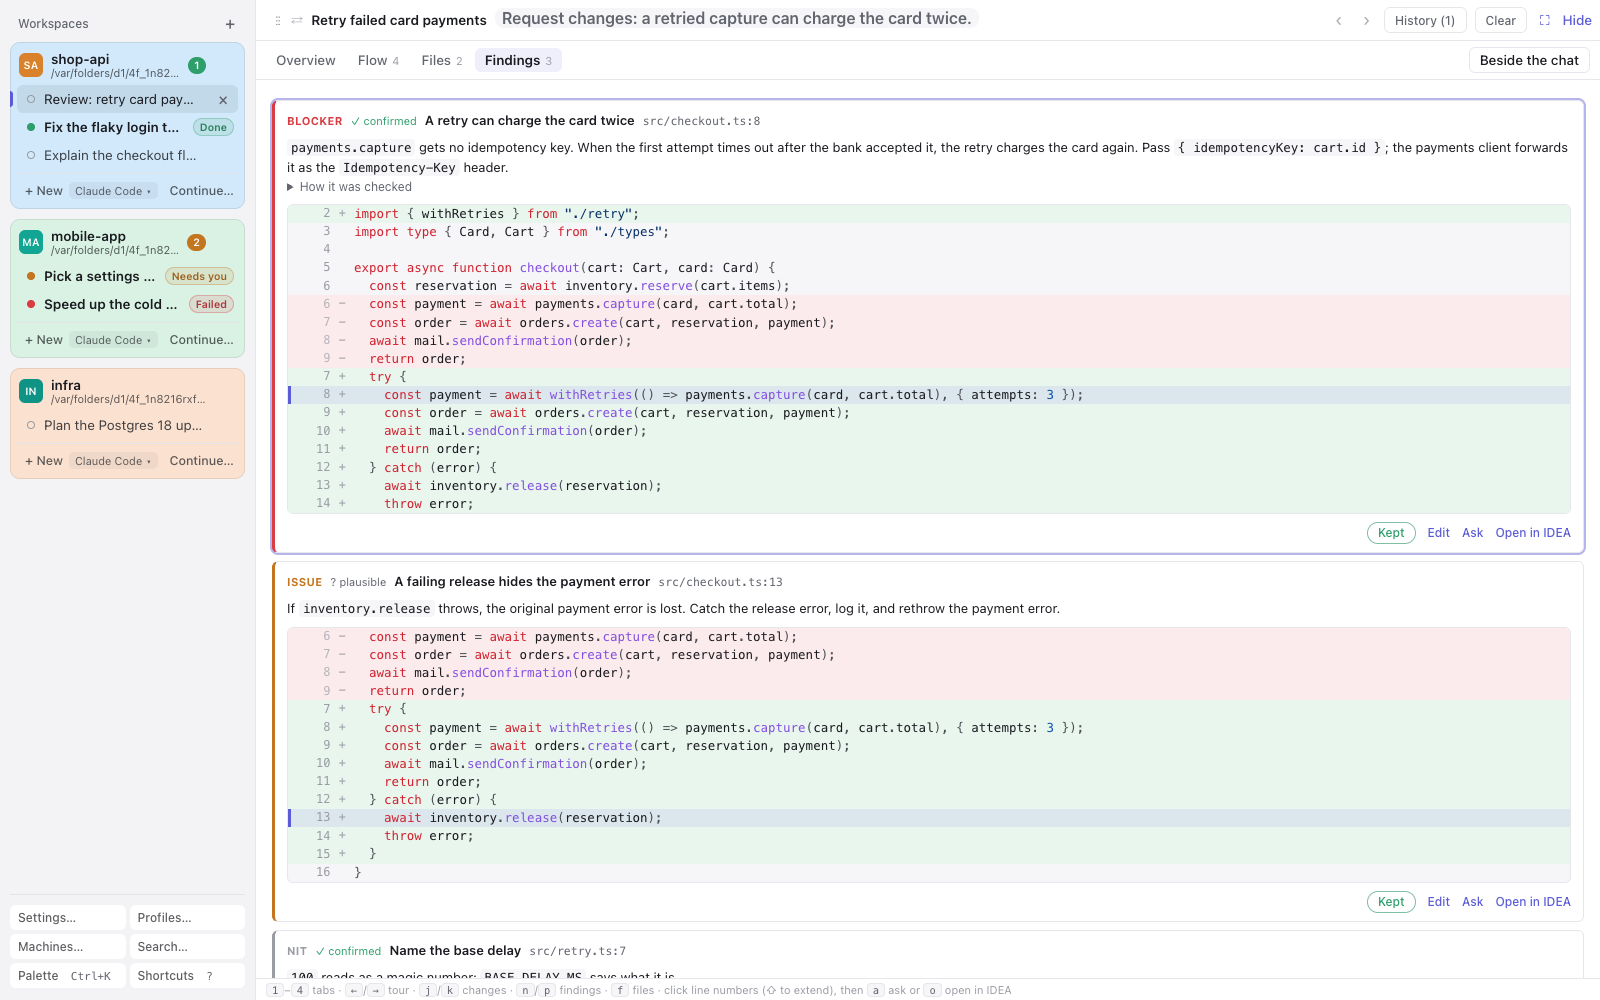
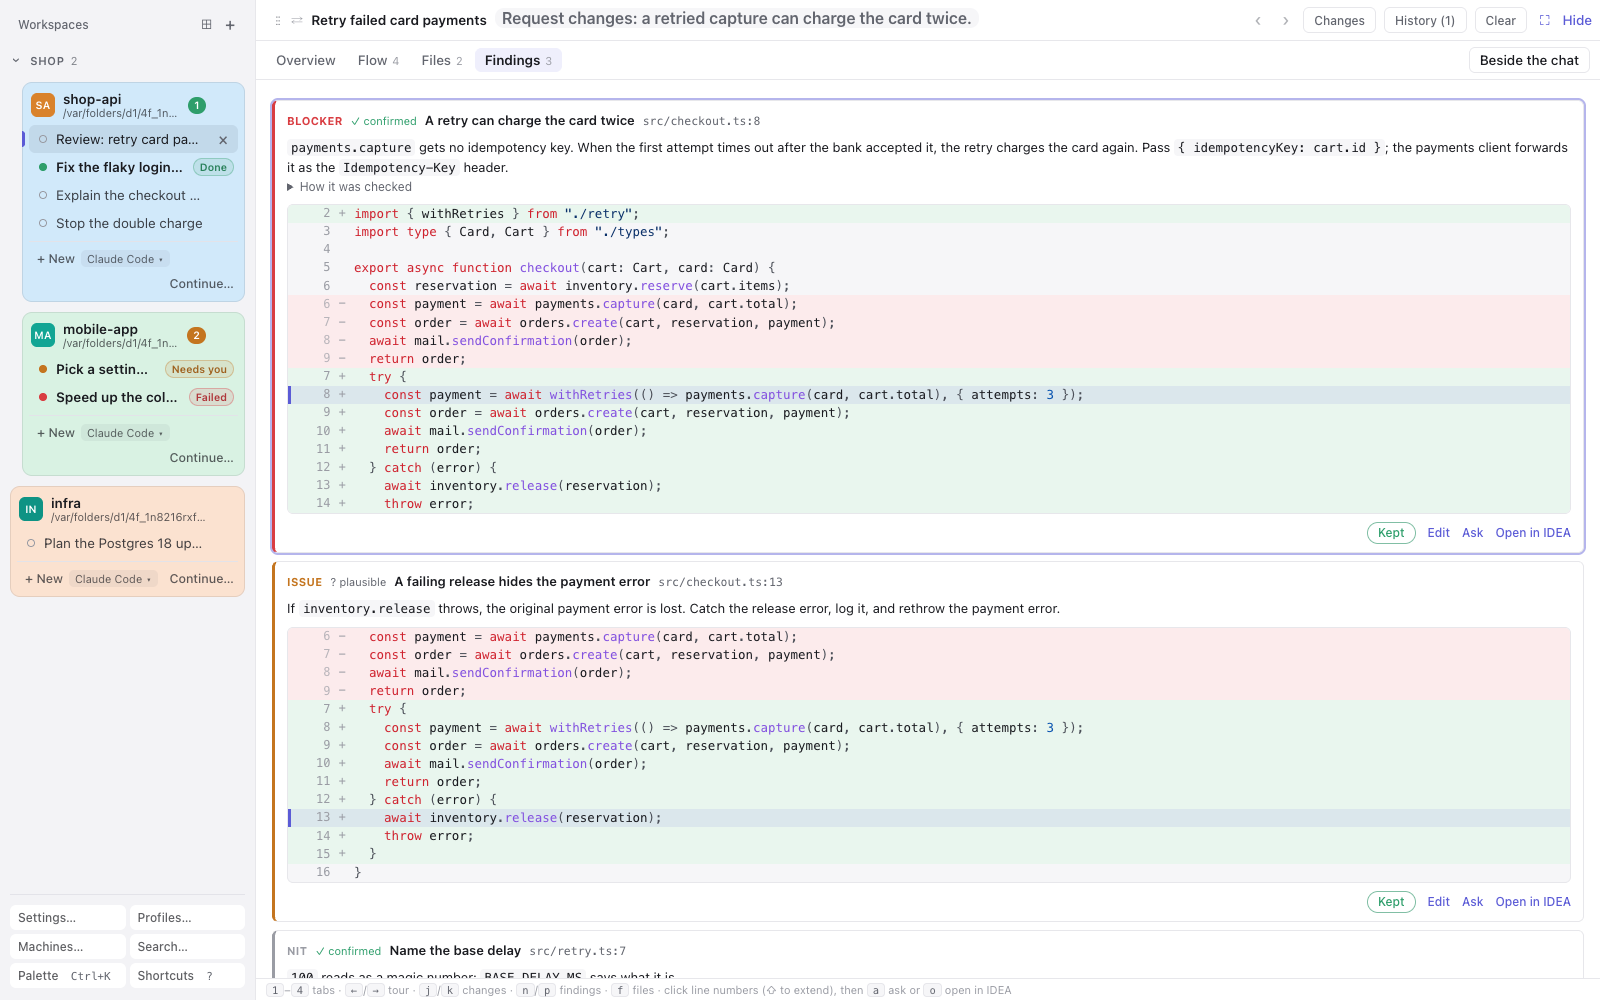
Show the Changes view and workspace groups in the README

Changed region(s): [[0.0, 0.0, 0.1562, 0.62], [0.8125, 0.0, 0.8438, 0.031]]

diff --git a/e2e/readme-screenshots.spec.ts b/e2e/readme-screenshots.spec.ts
@@ -78,6 +78,8 @@ const retry = `export async function withRetries<T>(run: () => Promise<T>, { att
 }
 `;
 
+const checkoutFixed = checkoutAfter.replace("payments.capture(card, cart.total)", "payments.capture(card, cart.total, { idempotencyKey: cart.id })");
+
 /** shop-api on a branch that retries card payments, the change the demo review is about. */
 function createProjects() {
   writeFiles(shopApi, { "README.md": "# shop-api\n", "src/checkout.ts": checkoutBefore });
@@ -148,6 +150,22 @@ const coldStart = [
   userSays("Profile the cold start on a mid-range phone and cut it below a second."),
   agentSays("Starting a trace on the emulator…"),
   { type: "turn-end", stopReason: "refusal" },
+];
+
+const captureLine = "withRetries(() => payments.capture(card, cart.total), { attempts: 3 })";
+const stopDoubleCharge = [
+  userSays("Fix the blocker from the review: a retried capture must not charge the card twice."),
+  update({
+    sessionUpdate: "tool_call",
+    toolCallId: "toolu_edit",
+    title: "Edit src/checkout.ts",
+    kind: "edit",
+    status: "completed",
+    locations: [{ path: join(shopApi, "src/checkout.ts") }],
+    content: [{ type: "diff", path: join(shopApi, "src/checkout.ts"), oldText: captureLine, newText: captureLine.replace("cart.total)", "cart.total, { idempotencyKey: cart.id })") }],
+  }),
+  agentSays("The capture now sends the cart's id as its idempotency key, so retrying a capture the bank already took doesn't charge the card again. The change is under *Changes* on the canvas."),
+  turnEnd,
 ];
 
 const postgres = [
@@ -319,10 +337,12 @@ test("the README's screenshots", async ({ page }) => {
     coldStart: await newConversationIn(page, mobileApp),
     postgres: await newConversationIn(page, infra),
     explainCheckout: await newConversationIn(page, shopApi),
+    stopDoubleCharge: await newConversationIn(page, shopApi),
   };
   const conversation = (id: string, title: string, minutesAgo: number, events: unknown[], unseenTurnEnd?: DemoConversation["unseenTurnEnd"]): DemoConversation => ({ id, title, minutesAgo, events, unseenTurnEnd });
   const demo: Demo = {
     workspaceColors: { [shopApi]: "sky", [mobileApp]: "mint", [infra]: "peach" },
+    sidebar: [{ group: "Shop", workspaces: [shopApi, mobileApp] }, infra],
     conversations: [
       conversation(ids.explainCheckout, "Explain the checkout flow", 12, explainCheckout),
       conversation(ids.reviewRetries, "Review: retry card payments", 40, reviewRetries),
@@ -330,6 +350,7 @@ test("the README's screenshots", async ({ page }) => {
       conversation(ids.settingsLayout, "Pick a settings layout", 8, settingsLayout),
       conversation(ids.coldStart, "Speed up the cold start", 30, coldStart, "error"),
       conversation(ids.postgres, "Plan the Postgres 18 upgrade", 90, postgres),
+      conversation(ids.stopDoubleCharge, "Stop the double charge", 4, stopDoubleCharge),
     ],
   };
   await host.stop();
@@ -375,5 +396,15 @@ test("the README's screenshots", async ({ page }) => {
     await expect(page.locator(".terminal-pane .xterm-rows").nth(1)).toContainText("2 files changed");
     await save(page, "terminals");
     await page.getByRole("button", { name: "Hide terminal" }).click();
+  });
+
+  await test.step("the files a change touched, on the canvas", async () => {
+    writeFiles(shopApi, { "src/checkout.ts": checkoutFixed, "README.md": "# shop-api\n\nCheckout retries a failed card capture up to three times.\n" });
+    await openConversation(page, ids.stopDoubleCharge);
+    const changes = page.locator(".changes");
+    await changes.getByRole("button", { name: "Uncommitted" }).click();
+    await changes.getByRole("button", { name: /src\/checkout\.ts/ }).click();
+    await expect(changes.locator(".changes-diff")).toContainText("idempotencyKey");
+    await save(page, "changes");
   });
 });

diff --git a/e2e/seed-demo.ts b/e2e/seed-demo.ts
@@ -9,12 +9,20 @@ export interface DemoConversation {
   events: unknown[];
 }
 
+/** A group in the sidebar, with its workspaces by their paths. */
+export interface DemoGroup {
+  group: string;
+  workspaces: string[];
+}
+
 export interface Demo {
   workspaceColors: Record<string, string>;
+  /** The sidebar from top to bottom: a workspace in no group by its path, or a group. */
+  sidebar: (string | DemoGroup)[];
   conversations: DemoConversation[];
 }
 
-/** Run with bun while the test host is stopped: names, colours and fills conversations, as a person's own would look. */
+/** Run with bun while the test host is stopped: names, colours, groups and fills conversations, as a person's own would look. */
 const [databasePath, demoJson] = process.argv.slice(2);
 const db = new Database(databasePath!);
 const demo = JSON.parse(demoJson!) as Demo;
@@ -22,10 +30,19 @@ const insertEvent = db.prepare("INSERT INTO events (conversation_id, seq, at, ev
 const lastSeq = db.prepare("SELECT max(seq) AS seq FROM events WHERE conversation_id = ?");
 const nameConversation = db.prepare("UPDATE conversations SET title = ?, title_set_by_user = 1, unseen_turn_end = ? WHERE id = ?");
 const colorWorkspace = db.prepare("UPDATE workspaces SET color = ? WHERE path = ?");
+const insertGroup = db.prepare("INSERT INTO workspace_groups (id, name, position, created_at) VALUES (?, ?, ?, ?)");
+const placeWorkspace = db.prepare("UPDATE workspaces SET position = ?, group_id = ? WHERE path = ?");
 const minute = 60_000;
 
 db.transaction(() => {
   Object.entries(demo.workspaceColors).forEach(([path, color]) => colorWorkspace.run(color, path));
+  let position = 0;
+  demo.sidebar.forEach((entry) => {
+    if (typeof entry === "string") return void placeWorkspace.run(position++, null, entry);
+    const groupId = crypto.randomUUID();
+    insertGroup.run(groupId, entry.group, position++, Date.now());
+    entry.workspaces.forEach((path) => placeWorkspace.run(position++, groupId, path));
+  });
   demo.conversations.forEach(({ id, title, minutesAgo, unseenTurnEnd, events }) => {
     nameConversation.run(title, unseenTurnEnd ?? null, id);
     const { seq } = lastSeq.get(id) as { seq: number | null };

diff --git a/README.md b/README.md
@@ -118,9 +118,12 @@ Open the `http://127.0.0.1:4600/auth?code=…` link the host prints; it signs on
 
 ### The canvas
 
+![The Changes view on the canvas: the uncommitted files of shop-api, the agent's edit of src/checkout.ts marked and open under its row](docs/screenshots/changes.png)
+
 - **`show`**: the agent renders a page next to the conversation: diagrams, mockups, charts, comparisons, 3D scenes.
 - **Libraries built in**: three.js (with OrbitControls), D3 v7 and Mermaid load from Mirador itself, so pages work offline.
 - **Script errors come back**: the agent hears either "rendered without script errors" or the list of errors, and can fix its page.
+- **Changes**: *Changes* in the canvas bar lists the files this turn changed, or the workspace's uncommitted work (*This turn* or *Uncommitted*), and marks the ones the agent's edit tools changed. Files outside the project the agent edited are listed apart. Click a file for its line changes right under its row, Unified or Split, and *Open in IDEA* at its first change. The list shows at once when you come back to it, and refreshes as the agent works.
 - **History**: everything shown or asked is kept per conversation, across reloads and restarts. *Older* and *Newer* step through it, and *History* lists it newest first, with each question's outcome. *Clear* empties the canvas without deleting anything.
 - **Hide, show and full screen**: the canvas keeps receiving pages while hidden.
 - **How often Claude Code uses it** (*Settings → Canvas*): *As needed*, or *Often*, which adds guidance to Claude Code's system prompt. The canvas tools are always loaded, so Claude Code's tool search never hides them. opencode gets the same instructions.
@@ -211,8 +214,8 @@ Open the `http://127.0.0.1:4600/auth?code=…` link the host prints; it signs on
 ### Sidebar and workspaces
 
 - **Workspaces** are project folders (*Add workspace*, Tab completes paths), each a card with its conversations oldest first and *+ New* at the bottom. The chip beside *+ New* chooses the profile for new conversations, and each workspace remembers it. Removing a workspace never touches its files.
-- **Drag to reorder** workspaces (by their heading) and conversations (within their workspace). Every window and reload keeps the order.
-- **Groups**: ⊞ next to + adds a group, e.g. per project or client, named in place. Drag a workspace by its heading into a group, out of it or within it; dropping it on a folded group's heading puts it last there. Drag a group's heading to reorder the groups, and hover it to rename or delete the group (its workspaces move to the top). A group folds to its heading, which then counts what waits in it; opening a conversation in a folded group unfolds it. The palette has *New group…* and moves a workspace into a group or out of its own. Every window keeps the groups; folding is per browser. The phone app shows the workspaces without their groups.
+- **Drag to reorder** workspaces (by their heading), groups (by theirs) and conversations (within their workspace). Workspaces outside a group and the groups share one order, so a workspace can sit between two groups or below them. New workspaces and groups go first. Every window and reload keeps the order.
+- **Groups**: ⊞ next to + adds a group, e.g. per project or client, named in place. Drag a workspace by its heading into a group, out of it or within it: dropped on the top edge of a group's heading it lands above the group, and lower on the heading last in it, folded or not. A group's workspaces are indented a little. Hover a group's heading to rename or delete the group; its workspaces stay where it was. A group folds to its heading, which then counts what waits in it; opening a conversation in a folded group unfolds it. The palette has *New group…*, and moves a workspace into a group or out of its own, to just below it. Every window keeps the groups; folding is per browser. The phone app shows the workspaces in the same order, without their groups.
 - **Colours**: eight pastels, picked from the workspace's initials badge or the palette, drawn as a tinted card, a heading or an edge stripe.
 - **Waiting marks**: *Needs you*, *Done* and *Failed* (see [Notifications](#notifications-and-waiting-for-you)).
 - **Devices connected**: a line at the bottom says how many devices are connected; it can be switched off.
